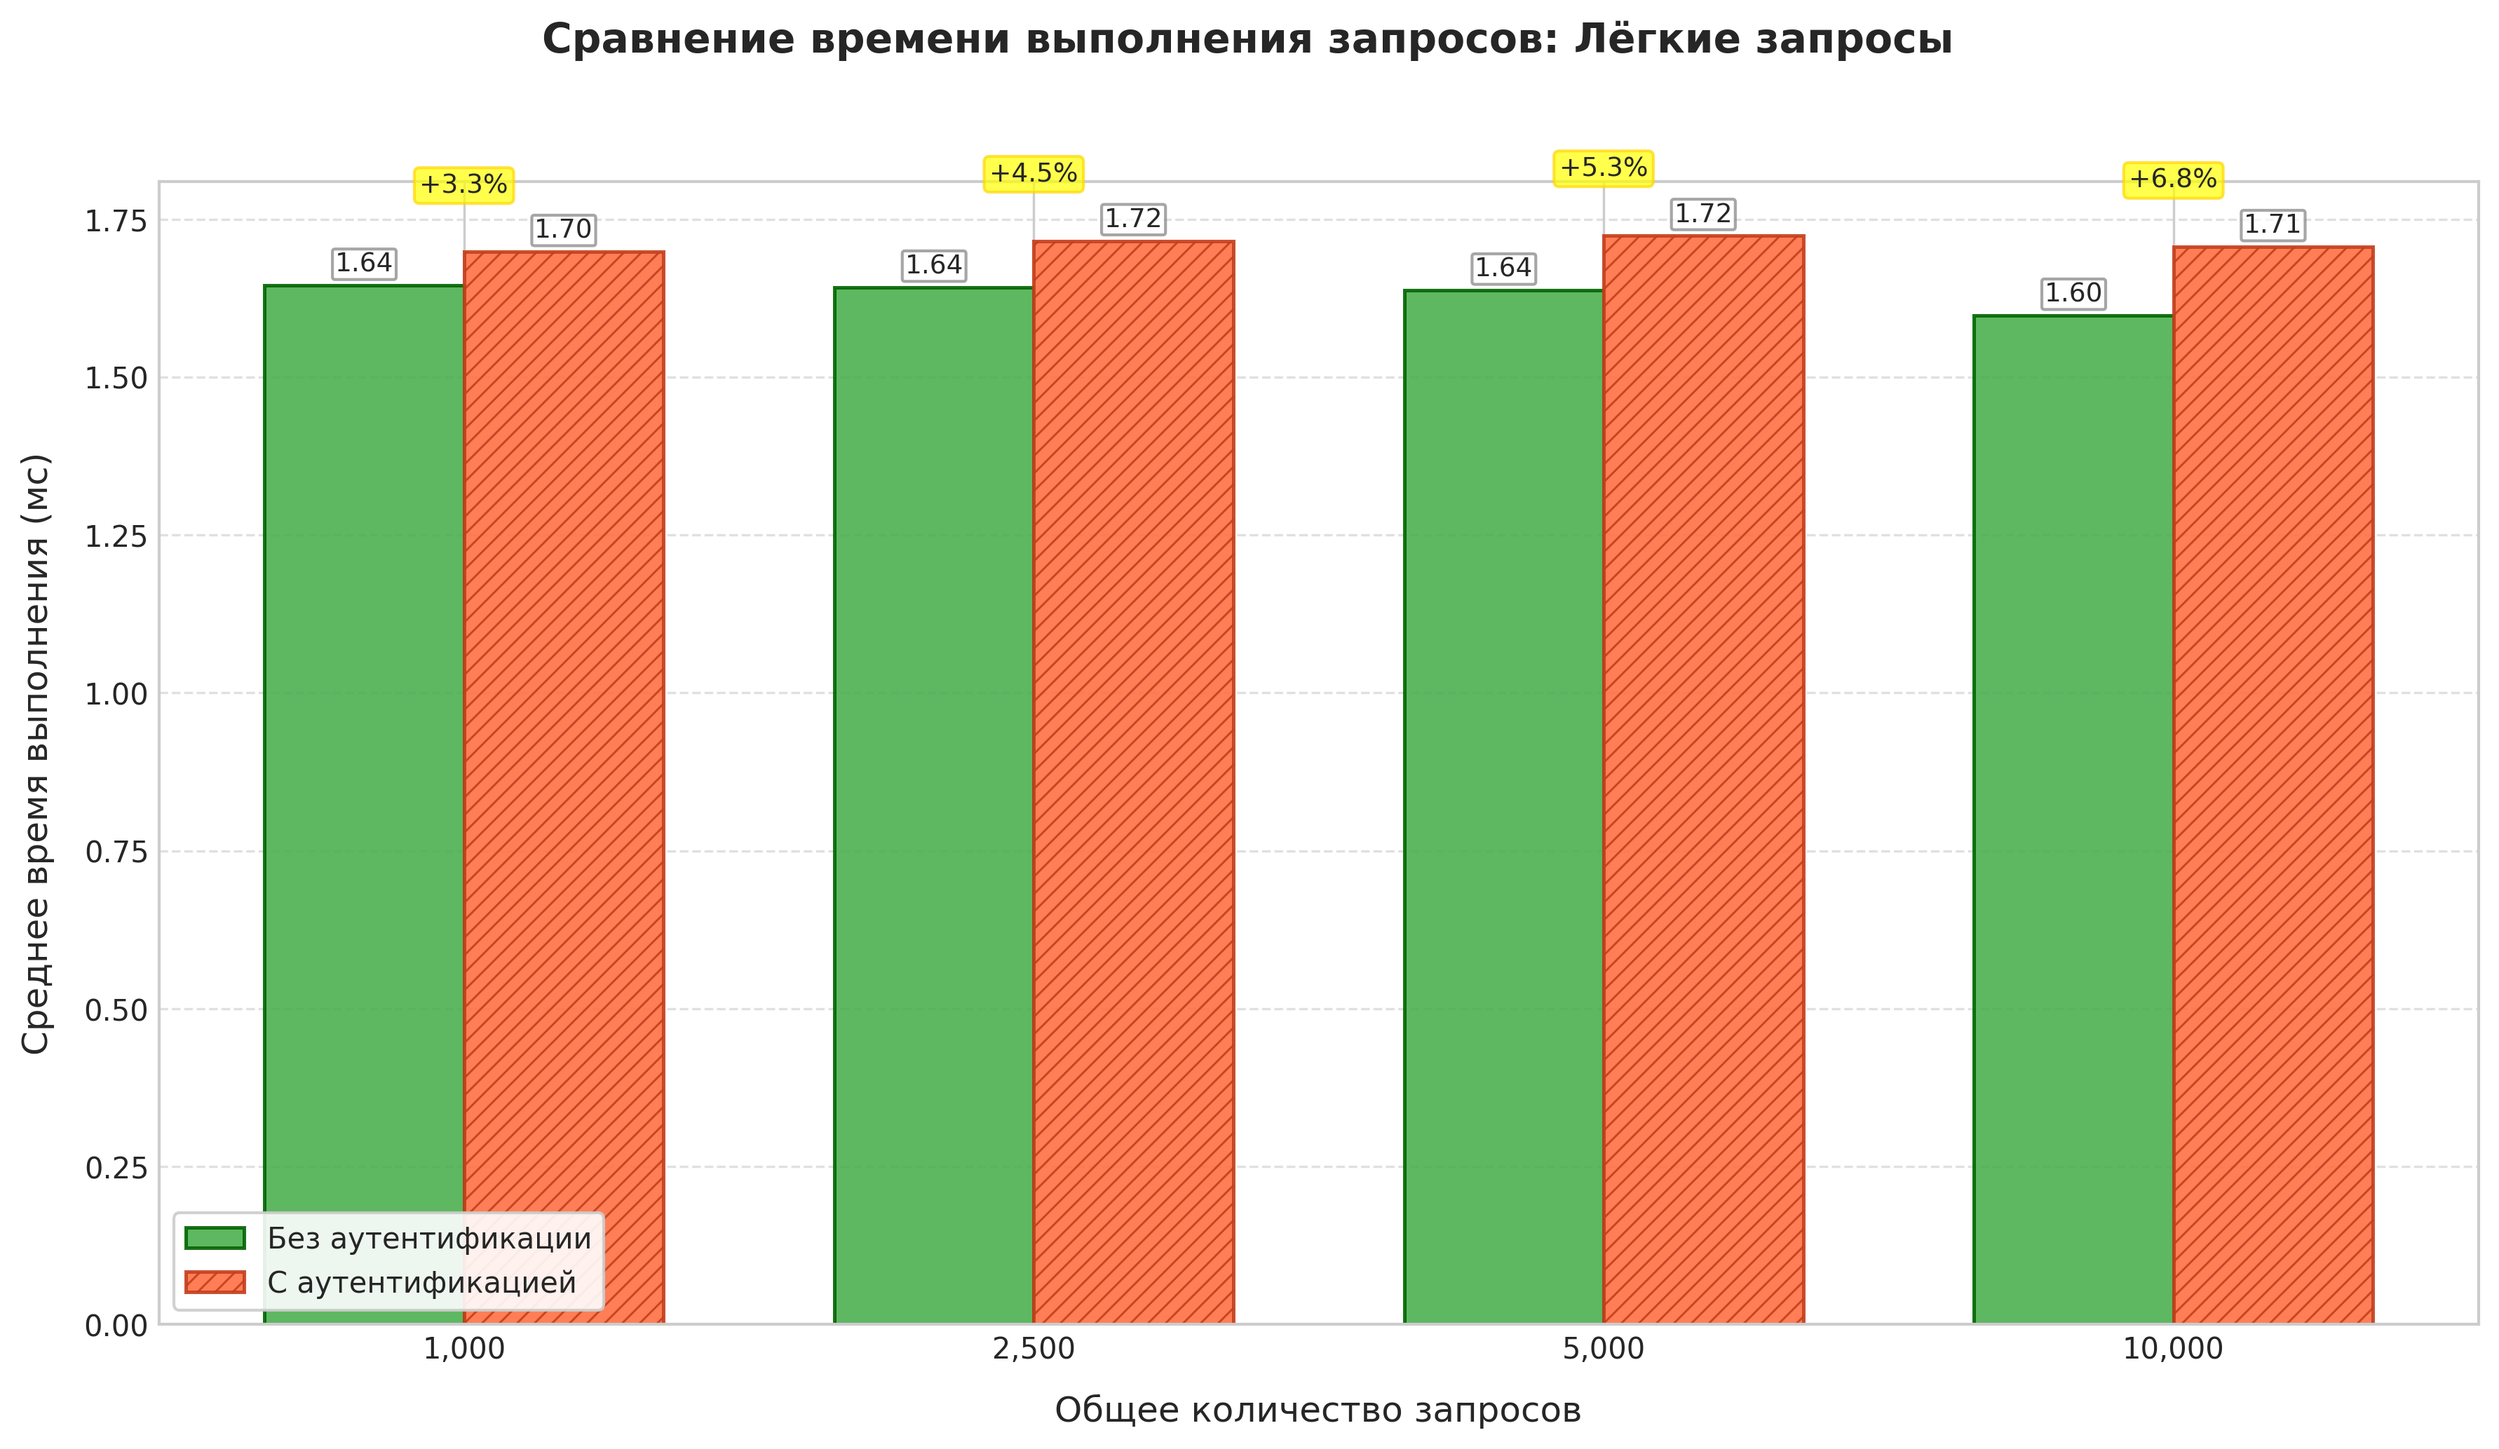
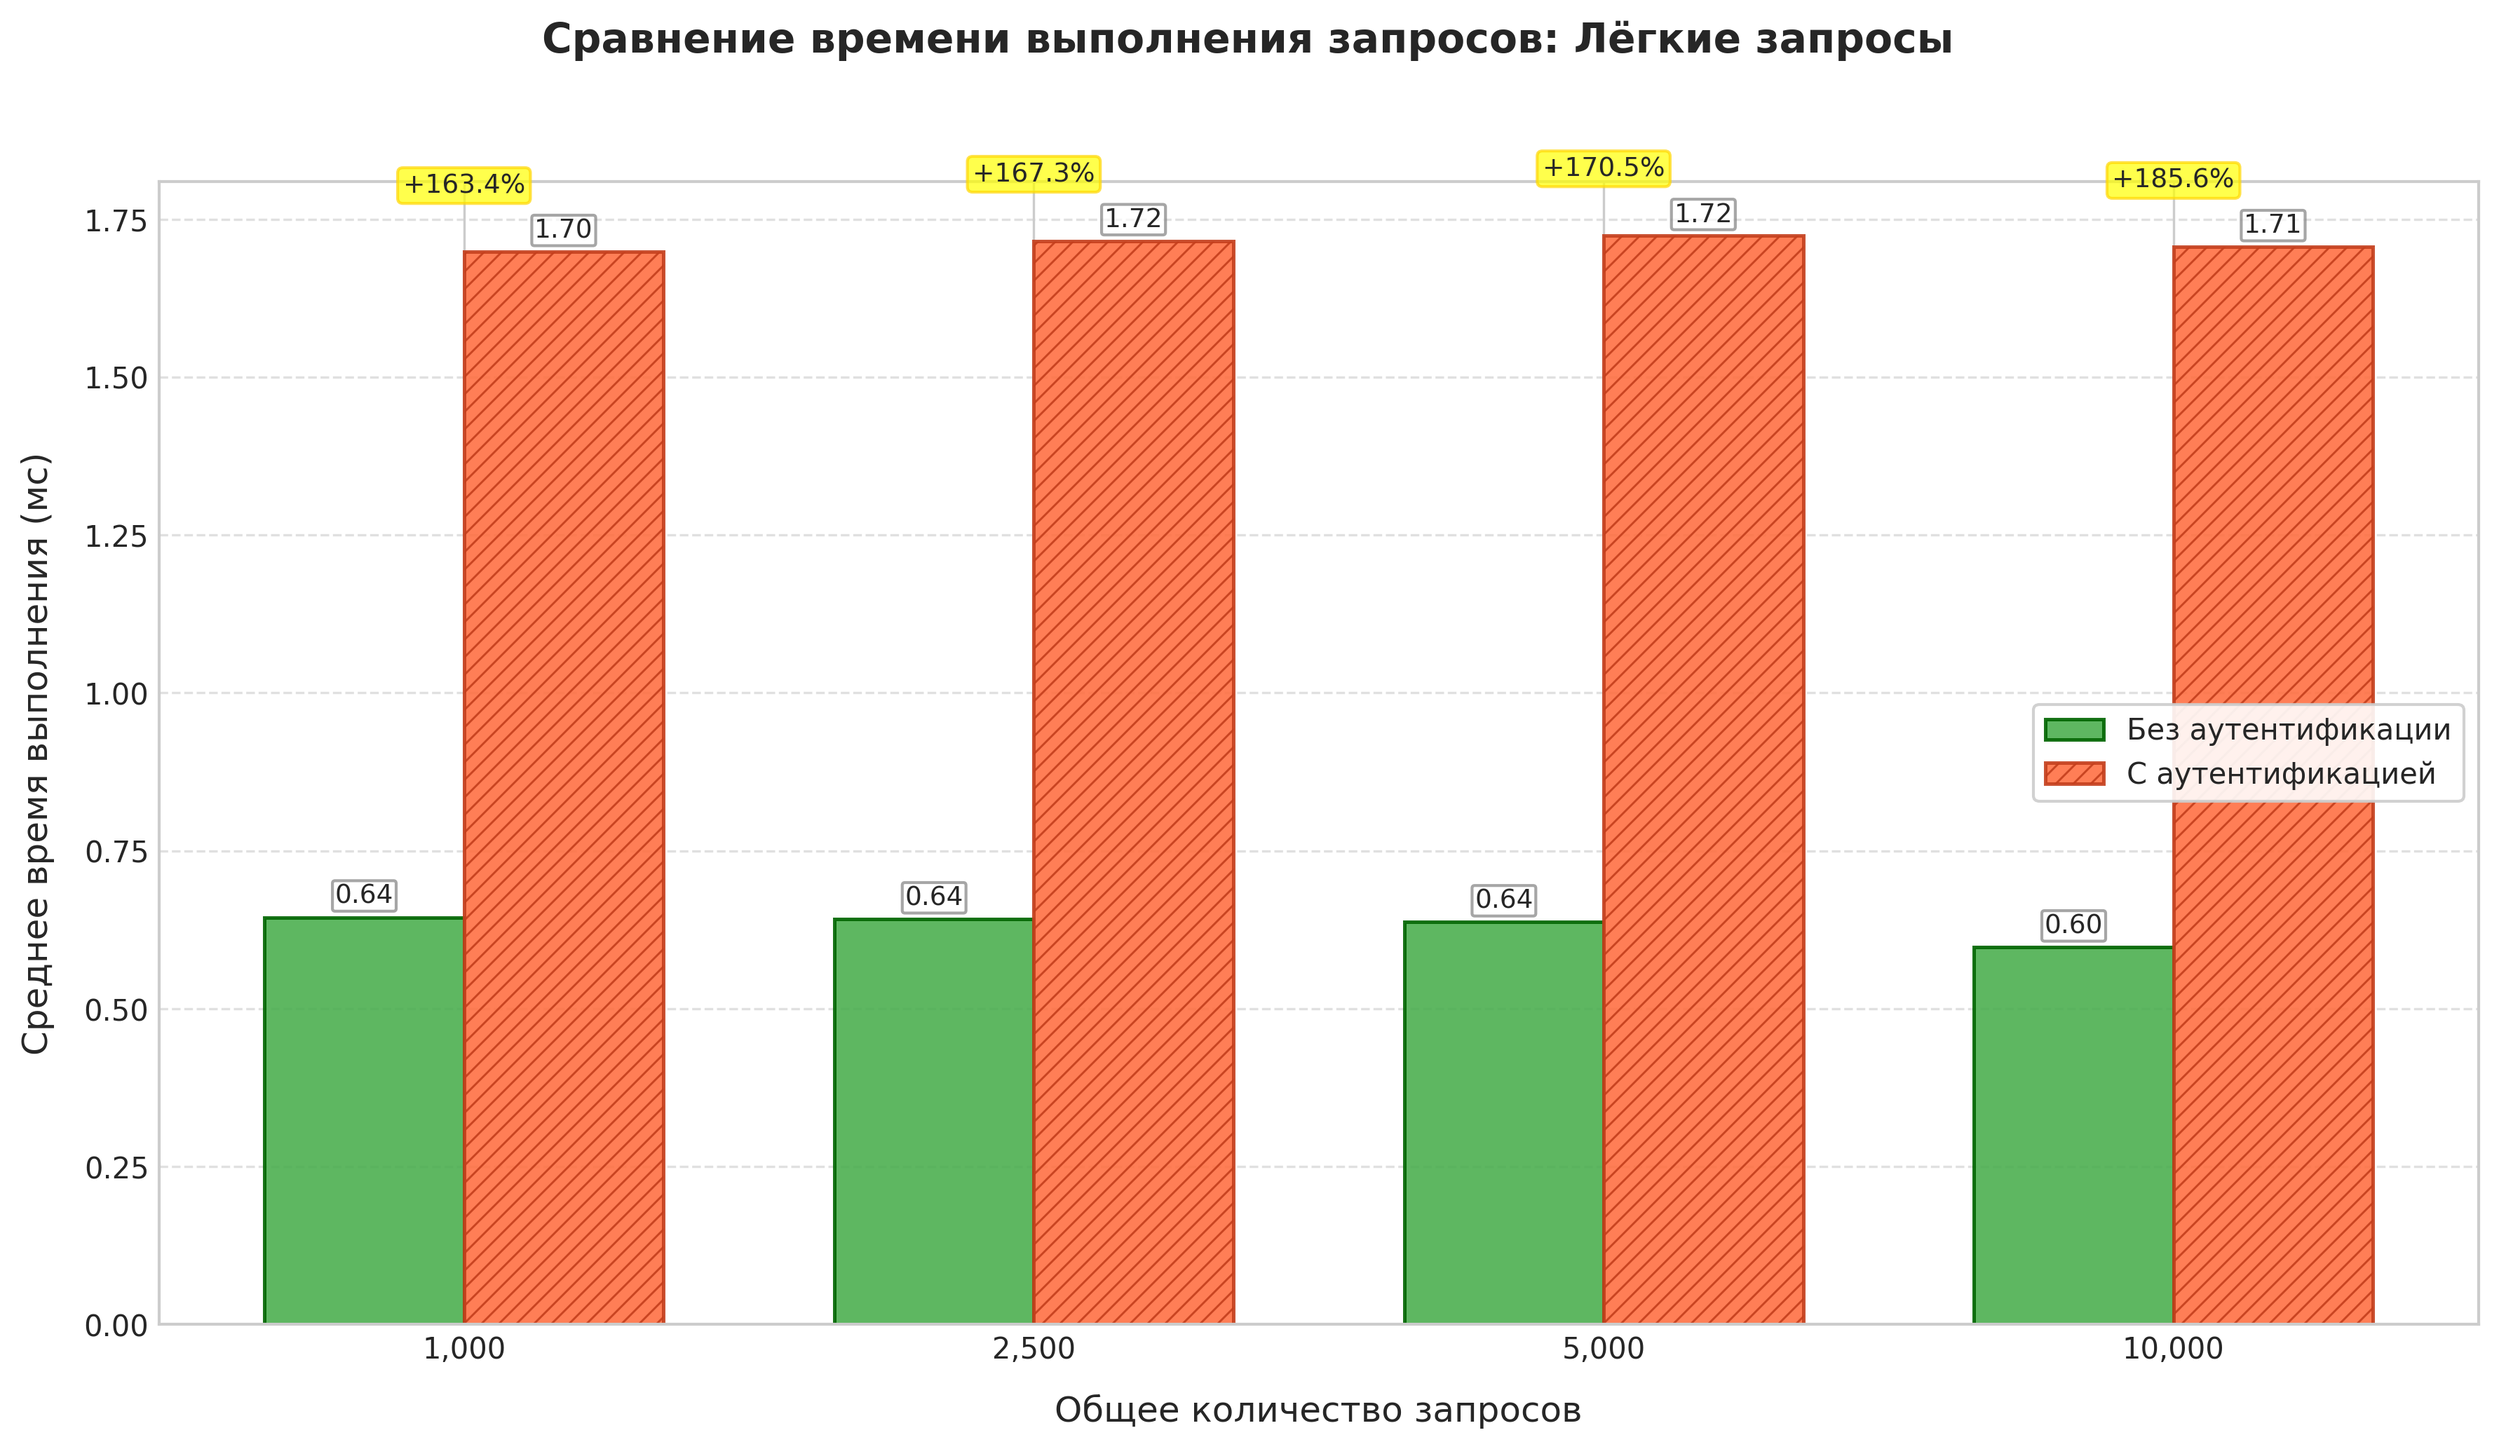
[iter12]: reserach done

diff --git a/src/business-service/bench1.go b/src/business-service/bench1.go
@@ -3,13 +3,17 @@ package main
 import (
 	"bytes"
 	"context"
+	"database/sql"
 	"encoding/json"
 	"fmt"
 	"io"
+	"log"
 	"net/http"
 	"sync"
 	"sync/atomic"
 	"time"
+
+	_ "github.com/lib/pq"
 
 	"github.com/perpetua1g0d/bmstu-diploma/business-service/config"
 	auth_signer "github.com/perpetua1g0d/bmstu-diploma/src/auth-client/pkg/signer"
@@ -21,6 +25,7 @@ type Service struct {
 	httpClient  *http.Client
 	authEnabled *atomic.Bool
 	benchmark   *BenchmarkState
+	db          *sql.DB
 }
 
 type BenchmarkState struct {
@@ -34,6 +39,7 @@ type BenchmarkState struct {
 	concurrency   int
 	queryType     string
 	delay         time.Duration
+	useDirect     bool
 	ctx           context.Context
 	cancel        context.CancelFunc
 }
@@ -48,6 +54,19 @@ type BenchmarkResults struct {
 	MaxDuration    time.Duration
 	SumDurations   time.Duration
 	StatusCounters map[int]int64
+}
+
+const (
+	directDriver = "postgres"
+	directDSN    = "host=%s port=%s user=%s password=%s dbname=%s sslmode=disable"
+)
+
+var directParams = map[string]string{
+	"host":     "postgres-a.postgres-a.svc.cluster.local",
+	"port":     "5434",
+	"dbname":   "appdb",
+	"password": "password",
+	"user":     "admin",
 }
 
 func NewService(cfg *config.Config, signer *auth_signer.TokenSigner) *Service {
@@ -70,6 +89,13 @@ func NewService(cfg *config.Config, signer *auth_signer.TokenSigner) *Service {
 	}
 	s.authEnabled.Store(cfg.SignAuthEnabled)
 
+	var err error
+	connStr := fmt.Sprintf(directDSN, directParams["host"], directParams["port"], "admin", "password", directParams["dbname"])
+	s.db, err = sql.Open(directDriver, connStr)
+	if err != nil {
+		log.Fatalf("failed to create db connection: %v", err)
+	}
+
 	return s
 }
 
@@ -84,6 +110,24 @@ func (s *Service) sendBenchmarkQuery(queryType string) (int, error) {
 	default: // "light"
 		sql = `INSERT INTO log (message) VALUES ($1)`
 		params = []interface{}{fmt.Sprintf("Benchmark at %s", time.Now())}
+	}
+
+	if s.benchmark.useDirect {
+		if queryType == "heavy" {
+			rows, err := s.db.Query(sql)
+			if err != nil {
+				return 0, fmt.Errorf("direct query failed: %w", err)
+			} else if rows.Err() != nil {
+				return 0, fmt.Errorf("direct query failed: %w", err)
+			}
+			rows.Close()
+		} else {
+			_, err := s.db.Exec(sql, params...)
+			if err != nil {
+				return 0, fmt.Errorf("direct query failed: %w", err)
+			}
+		}
+		return http.StatusOK, nil
 	}
 
 	target := fmt.Sprintf("http://%s:%s%s",

diff --git a/src/business-service/main.go b/src/business-service/main.go
@@ -9,6 +9,8 @@ import (
 	"github.com/perpetua1g0d/bmstu-diploma/business-service/config"
 	auth_signer "github.com/perpetua1g0d/bmstu-diploma/src/auth-client/pkg/signer"
 	"github.com/prometheus/client_golang/prometheus/promhttp"
+
+	_ "github.com/lib/pq"
 )
 
 func main() {
@@ -27,6 +29,7 @@ func main() {
 	}
 
 	service := NewService(cfg, signer)
+	defer service.db.Close()
 
 	mux.Handle("/benchmark/start", http.HandlerFunc(service.benchmarkHandler))
 	mux.Handle("/benchmark/stop", http.HandlerFunc(service.stopBenchmarkHandler))
@@ -39,7 +42,7 @@ func main() {
 			if service.benchmark.running {
 				continue
 			}
-			service.sendRegularQuery()
+			// service.sendRegularQuery()
 		}
 	}()
 

diff --git a/src/business-service/bench2.go b/src/business-service/bench2.go
@@ -17,6 +17,7 @@ type BenchmarkRequest struct {
 	Concurrency int           `json:"concurrency"`
 	QueryType   string        `json:"query_type"`
 	Delay       time.Duration `json:"delay"`
+	UseDirect   bool          `json:"use_direct"`
 }
 
 type BenchmarkResponse struct {
@@ -39,6 +40,7 @@ func (s *Service) startBenchmark(req BenchmarkRequest) error {
 	s.benchmark.totalRequests = req.Requests
 	s.benchmark.concurrency = req.Concurrency
 	s.benchmark.queryType = req.QueryType
+	s.benchmark.useDirect = req.UseDirect
 	s.benchmark.delay = req.Delay
 	atomic.StoreInt64(&s.benchmark.counter, 0)
 	s.benchmark.results = &BenchmarkResults{

diff --git a/src/auth-ui/app.py b/src/auth-ui/app.py
@@ -117,6 +117,7 @@ def start_benchmark():
     service = request.args.get('service')
     try:
         data = request.get_json()
+        # data['use_direct'] = True
 
         pods = v1.list_namespaced_pod(namespace=service, label_selector=f"app={service}")
 
